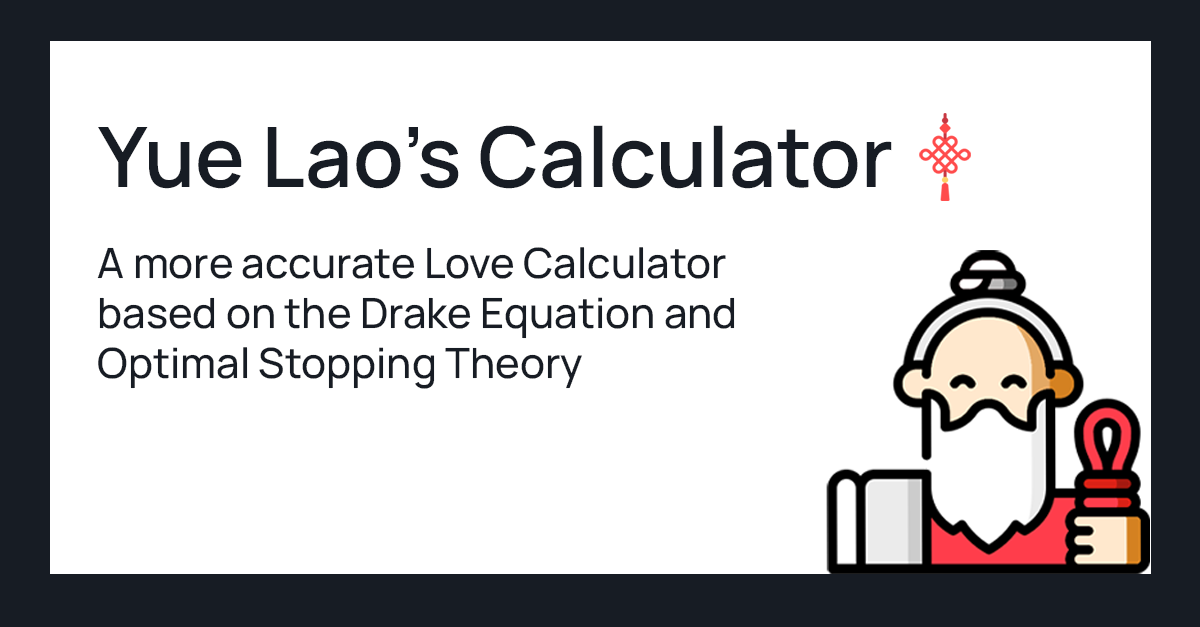
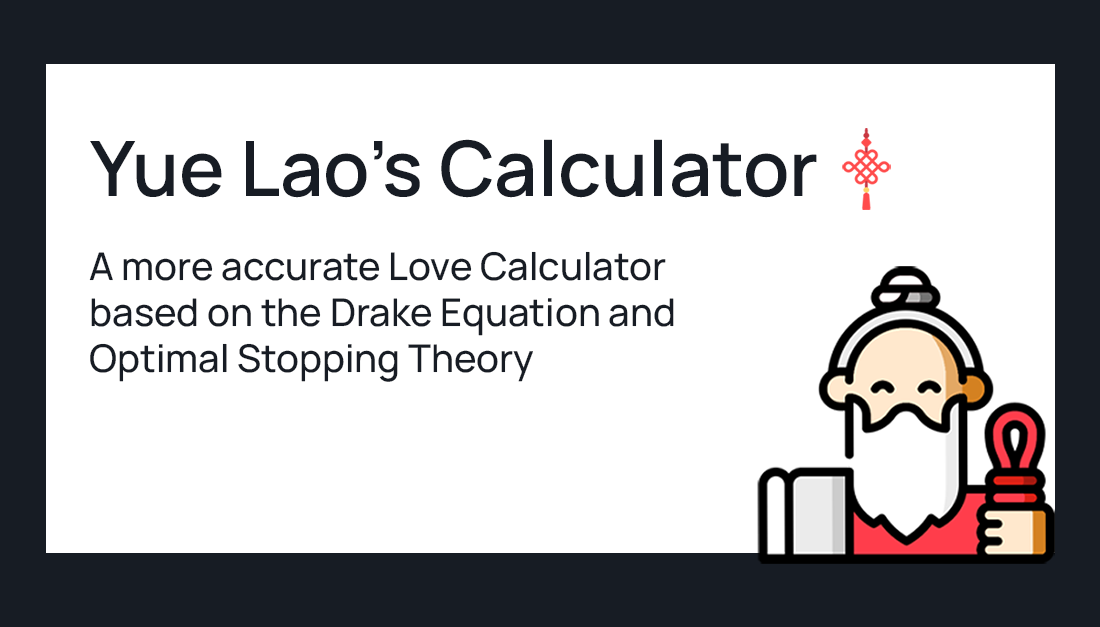
Updated cover image

diff --git a/index.html b/index.html
@@ -7,7 +7,7 @@
     <meta property="og:title" content="Yue Lao's Calculator: Drake Equation and Optimal Stopping Theory" />
     <meta property="og:description" content="A more accurate love calculator that estimates your attractiveness and finds your true love." />
     <meta property="og:type" content="website" />
-    <meta property="og:image" content="https://i.imgur.com/ls1yOVC.png" />
+    <meta property="og:image" content="https://i.imgur.com/Oa4ZaAN.png" />
     <link rel="icon" type="image/x-icon" href="./images/yue_lao_border.png">
     
 

diff --git a/contact.html b/contact.html
@@ -13,7 +13,7 @@
       content="A more accurate love calculator that estimates your attractiveness and finds your true love."
     />
     <meta property="og:type" content="article" />
-    <meta property="og:image" content="https://i.imgur.com/ls1yOVC.png" />
+    <meta property="og:image" content="https://i.imgur.com/Oa4ZaAN.png" />
     <link rel="icon" type="image/x-icon" href="./images/yue_lao_border.png" />
     <title>Yue Lao's Calculator</title>
 

diff --git a/faq.html b/faq.html
@@ -13,7 +13,7 @@
       content="A more accurate love calculator that estimates your attractiveness and finds your true love."
     />
     <meta property="og:type" content="article" />
-    <meta property="og:image" content="https://i.imgur.com/ls1yOVC.png" />
+    <meta property="og:image" content="https://i.imgur.com/Oa4ZaAN.png" />
     <link rel="icon" type="image/x-icon" href="./images/yue_lao_border.png" />
     <title>Yue Lao's Calculator</title>
 

diff --git a/howitworks.html b/howitworks.html
@@ -12,7 +12,7 @@
       content="A more accurate love calculator that estimates your attractiveness and finds your true love."
     />
     <meta property="og:type" content="article" />
-    <meta property="og:image" content="https://i.imgur.com/ls1yOVC.png" />
+    <meta property="og:image" content="https://i.imgur.com/Oa4ZaAN.png" />
     <link rel="icon" type="image/x-icon" href="./images/yue_lao_border.png" />
     <title>Yue Lao's Calculator</title>
 
